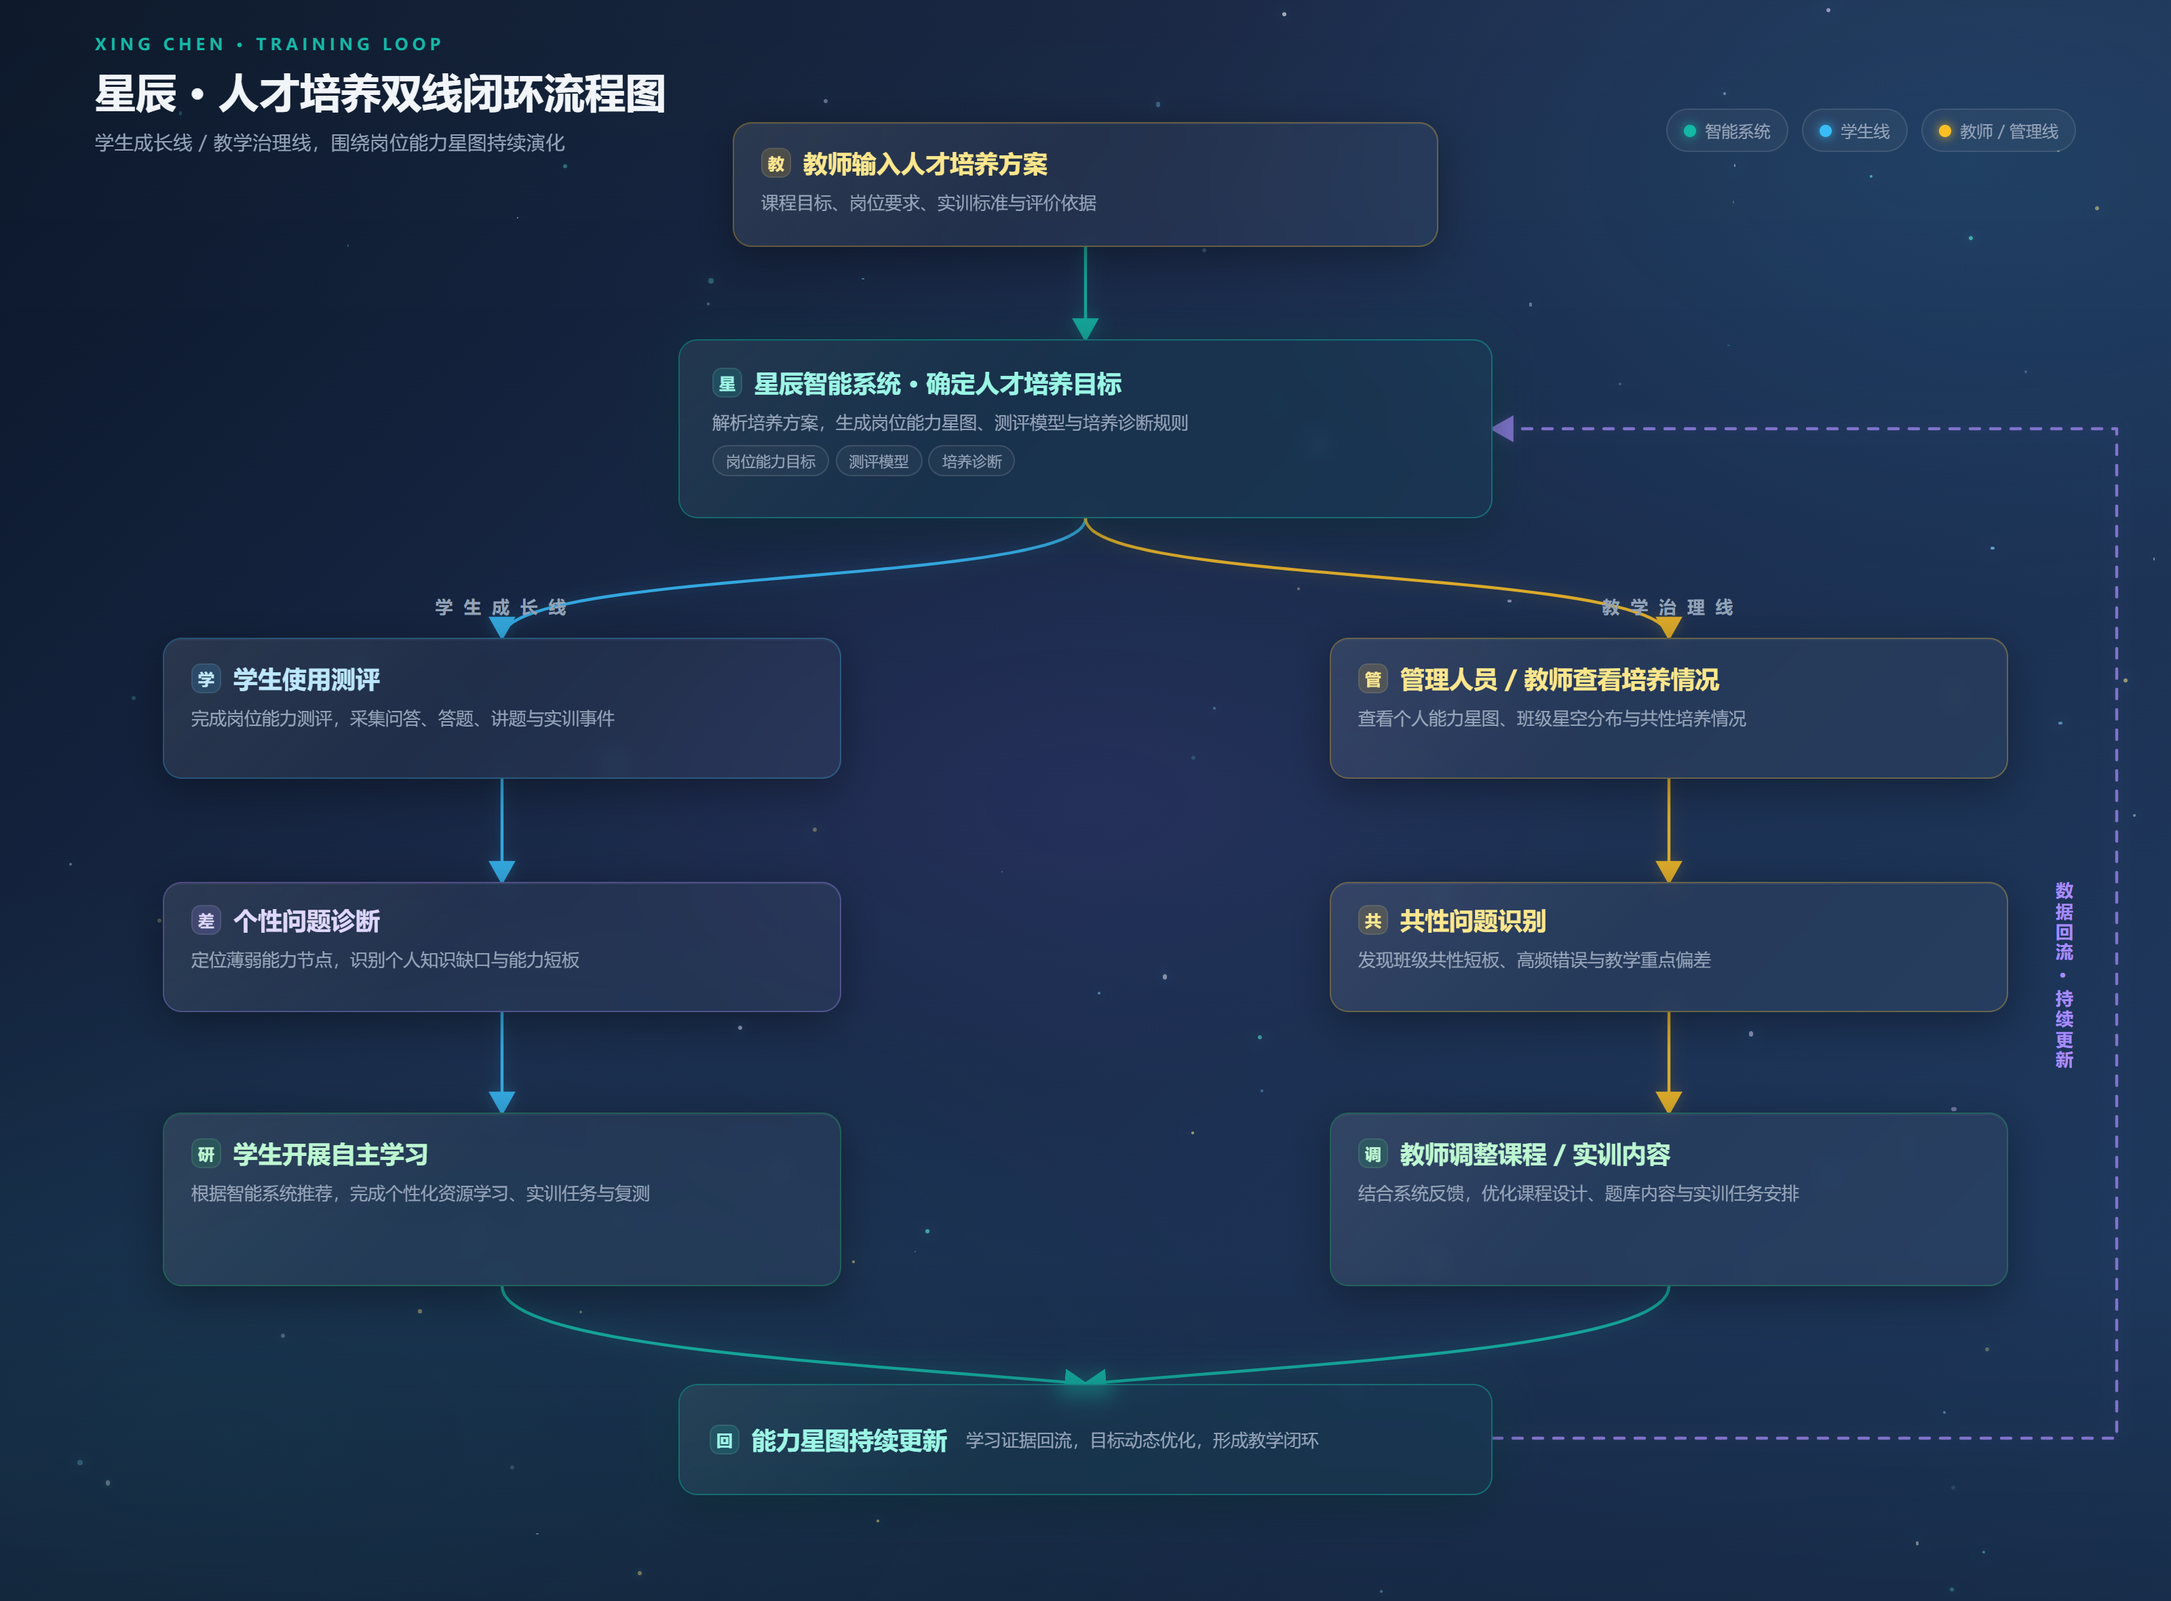
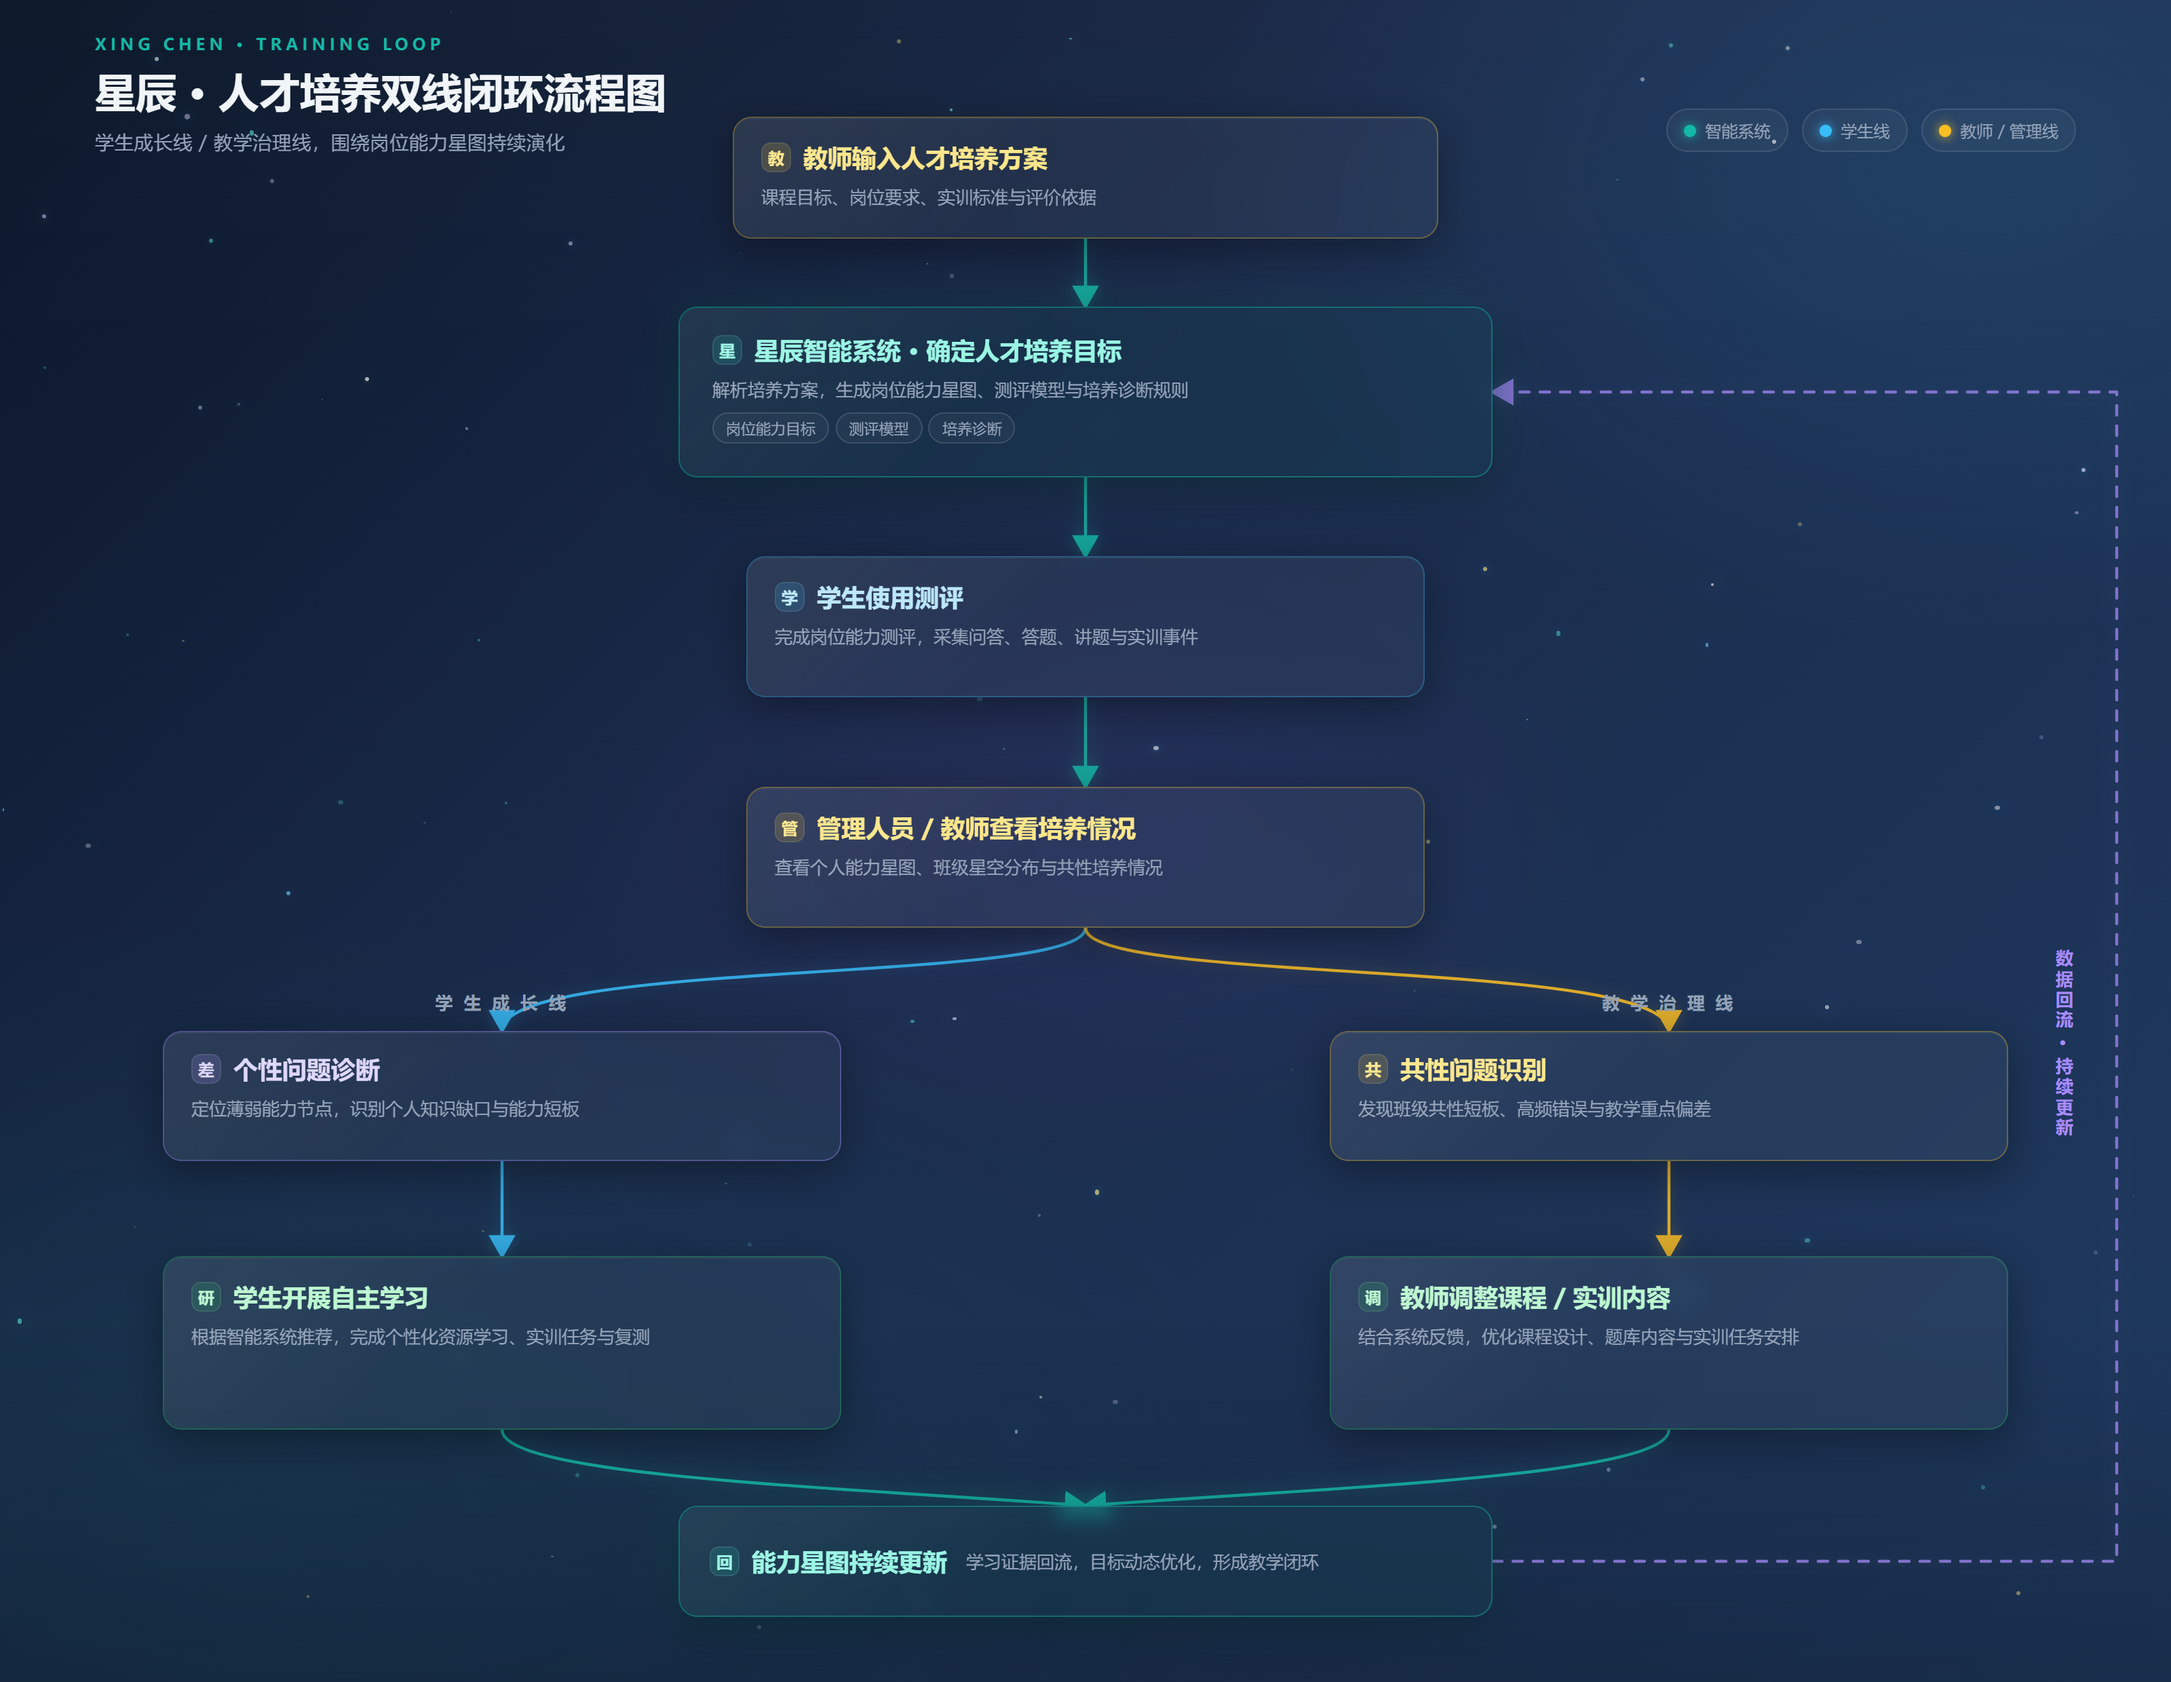
Reorder Xingchen training loop flow

diff --git a/docs/星辰_人才培养流程图.html b/docs/星辰_人才培养流程图.html
@@ -39,7 +39,7 @@
     .board {
       position: relative;
       width: 1600px;
-      height: 1180px;
+      height: 1240px;
       overflow: hidden;
       background:
         radial-gradient(ellipse 70% 50% at 10% 90%, rgba(15,118,110,0.16) 0%, transparent 70%),
@@ -141,7 +141,7 @@
       position: absolute;
       inset: 0;
       width: 1600px;
-      height: 1180px;
+      height: 1240px;
       z-index: 1;
       pointer-events: none;
     }
@@ -256,31 +256,31 @@
 
     .node.input {
       left: 540px;
-      top: 90px;
+      top: 86px;
       width: 520px;
-      height: 92px;
+      height: 90px;
       padding: 18px 20px;
     }
 
     .node.system {
       left: 500px;
-      top: 250px;
+      top: 226px;
       width: 600px;
-      height: 132px;
+      height: 126px;
       padding: 20px 24px;
     }
 
-    .node.student.branch {
-      left: 120px;
-      top: 470px;
+    .node.student.assessment {
+      left: 550px;
+      top: 410px;
       width: 500px;
       height: 104px;
       padding: 18px 20px;
     }
 
-    .node.teacher.branch {
-      left: 980px;
-      top: 470px;
+    .node.teacher.assessment {
+      left: 550px;
+      top: 580px;
       width: 500px;
       height: 104px;
       padding: 18px 20px;
@@ -288,7 +288,7 @@
 
     .node.insight.issue {
       left: 120px;
-      top: 650px;
+      top: 760px;
       width: 500px;
       height: 96px;
       padding: 16px 20px;
@@ -296,7 +296,7 @@
 
     .node.teacher.issue {
       left: 980px;
-      top: 650px;
+      top: 760px;
       width: 500px;
       height: 96px;
       padding: 16px 20px;
@@ -304,7 +304,7 @@
 
     .node.action {
       left: 120px;
-      top: 820px;
+      top: 926px;
       width: 500px;
       height: 128px;
       padding: 18px 20px;
@@ -312,7 +312,7 @@
 
     .node.teacher.action {
       left: 980px;
-      top: 820px;
+      top: 926px;
       width: 500px;
       height: 128px;
       padding: 18px 20px;
@@ -320,7 +320,7 @@
 
     .node.system.closure {
       left: 500px;
-      top: 1020px;
+      top: 1110px;
       width: 600px;
       height: 82px;
       padding: 16px 22px;
@@ -334,7 +334,7 @@
     .lane-label {
       position: absolute;
       z-index: 2;
-      top: 438px;
+      top: 730px;
       width: 500px;
       text-align: center;
       color: var(--text-secondary);
@@ -360,7 +360,7 @@
     .loop-label {
       position: absolute;
       right: 70px;
-      top: 650px;
+      top: 700px;
       color: #a78bfa;
       font-size: 13px;
       font-weight: 700;
@@ -402,7 +402,7 @@
       </div>
     </div>
 
-    <svg class="connectors" viewBox="0 0 1600 1180" aria-hidden="true">
+    <svg class="connectors" viewBox="0 0 1600 1240" aria-hidden="true">
       <defs>
         <marker id="arrow-system" markerWidth="9" markerHeight="9" refX="7" refY="4.5" orient="auto" markerUnits="strokeWidth">
           <path d="M0,0 L8,4.5 L0,9 z" fill="#14b8a6"/>
@@ -419,26 +419,28 @@
       </defs>
 
       <!-- Input to system -->
-      <path class="connector-line system" d="M800,182 L800,250" marker-end="url(#arrow-system)"/>
+      <path class="connector-line system" d="M800,176 L800,226" marker-end="url(#arrow-system)"/>
 
-      <!-- System split to two lanes -->
-      <path class="connector-line student" d="M800,382 C800,432 370,418 370,470" marker-end="url(#arrow-student)"/>
-      <path class="connector-line teacher" d="M800,382 C800,432 1230,418 1230,470" marker-end="url(#arrow-teacher)"/>
+      <!-- System to student assessment -->
+      <path class="connector-line system" d="M800,352 L800,410" marker-end="url(#arrow-system)"/>
 
-      <!-- Student lane -->
-      <path class="connector-line student" d="M370,574 L370,650" marker-end="url(#arrow-student)"/>
-      <path class="connector-line student" d="M370,746 L370,820" marker-end="url(#arrow-student)"/>
+      <!-- Student assessment to teacher view -->
+      <path class="connector-line system" d="M800,514 L800,580" marker-end="url(#arrow-system)"/>
 
-      <!-- Teacher lane -->
-      <path class="connector-line teacher" d="M1230,574 L1230,650" marker-end="url(#arrow-teacher)"/>
-      <path class="connector-line teacher" d="M1230,746 L1230,820" marker-end="url(#arrow-teacher)"/>
+      <!-- Teacher view split to individual and common issues -->
+      <path class="connector-line student" d="M800,684 C800,726 370,706 370,760" marker-end="url(#arrow-student)"/>
+      <path class="connector-line teacher" d="M800,684 C800,726 1230,706 1230,760" marker-end="url(#arrow-teacher)"/>
+
+      <!-- Issue to action -->
+      <path class="connector-line student" d="M370,856 L370,926" marker-end="url(#arrow-student)"/>
+      <path class="connector-line teacher" d="M1230,856 L1230,926" marker-end="url(#arrow-teacher)"/>
 
       <!-- Branches converge to closure -->
-      <path class="connector-line system" d="M370,948 C370,993 620,1004 800,1020" marker-end="url(#arrow-system)"/>
-      <path class="connector-line system" d="M1230,948 C1230,993 980,1004 800,1020" marker-end="url(#arrow-system)"/>
+      <path class="connector-line system" d="M370,1054 C370,1088 610,1096 800,1110" marker-end="url(#arrow-system)"/>
+      <path class="connector-line system" d="M1230,1054 C1230,1088 990,1096 800,1110" marker-end="url(#arrow-system)"/>
 
       <!-- Feedback loop from closure back to system -->
-      <path class="connector-line dashed" d="M1100,1060 L1560,1060 L1560,316 L1100,316" marker-end="url(#arrow-purple)"/>
+      <path class="connector-line dashed" d="M1100,1151 L1560,1151 L1560,289 L1100,289" marker-end="url(#arrow-purple)"/>
     </svg>
 
     <div class="loop-label">数据回流 · 持续更新</div>
@@ -465,7 +467,7 @@
       <span class="small-tag">培养诊断</span>
     </section>
 
-    <section class="node student branch">
+    <section class="node student assessment">
       <div class="node-head">
         <span class="node-icon">学</span>
         <h2 class="node-title">学生使用测评</h2>
@@ -473,7 +475,7 @@
       <p class="node-sub">完成岗位能力测评，采集问答、答题、讲题与实训事件</p>
     </section>
 
-    <section class="node teacher branch">
+    <section class="node teacher assessment">
       <div class="node-head">
         <span class="node-icon">管</span>
         <h2 class="node-title">管理人员 / 教师查看培养情况</h2>
@@ -533,7 +535,7 @@
         star.className = "star";
         const size = Math.random() * 2.6 + 1.1;
         const x = Math.random() * 1600;
-        const y = Math.random() * 1180;
+        const y = Math.random() * 1240;
         const color = colors[Math.floor(Math.random() * colors.length)];
         star.style.left = x + "px";
         star.style.top = y + "px";
